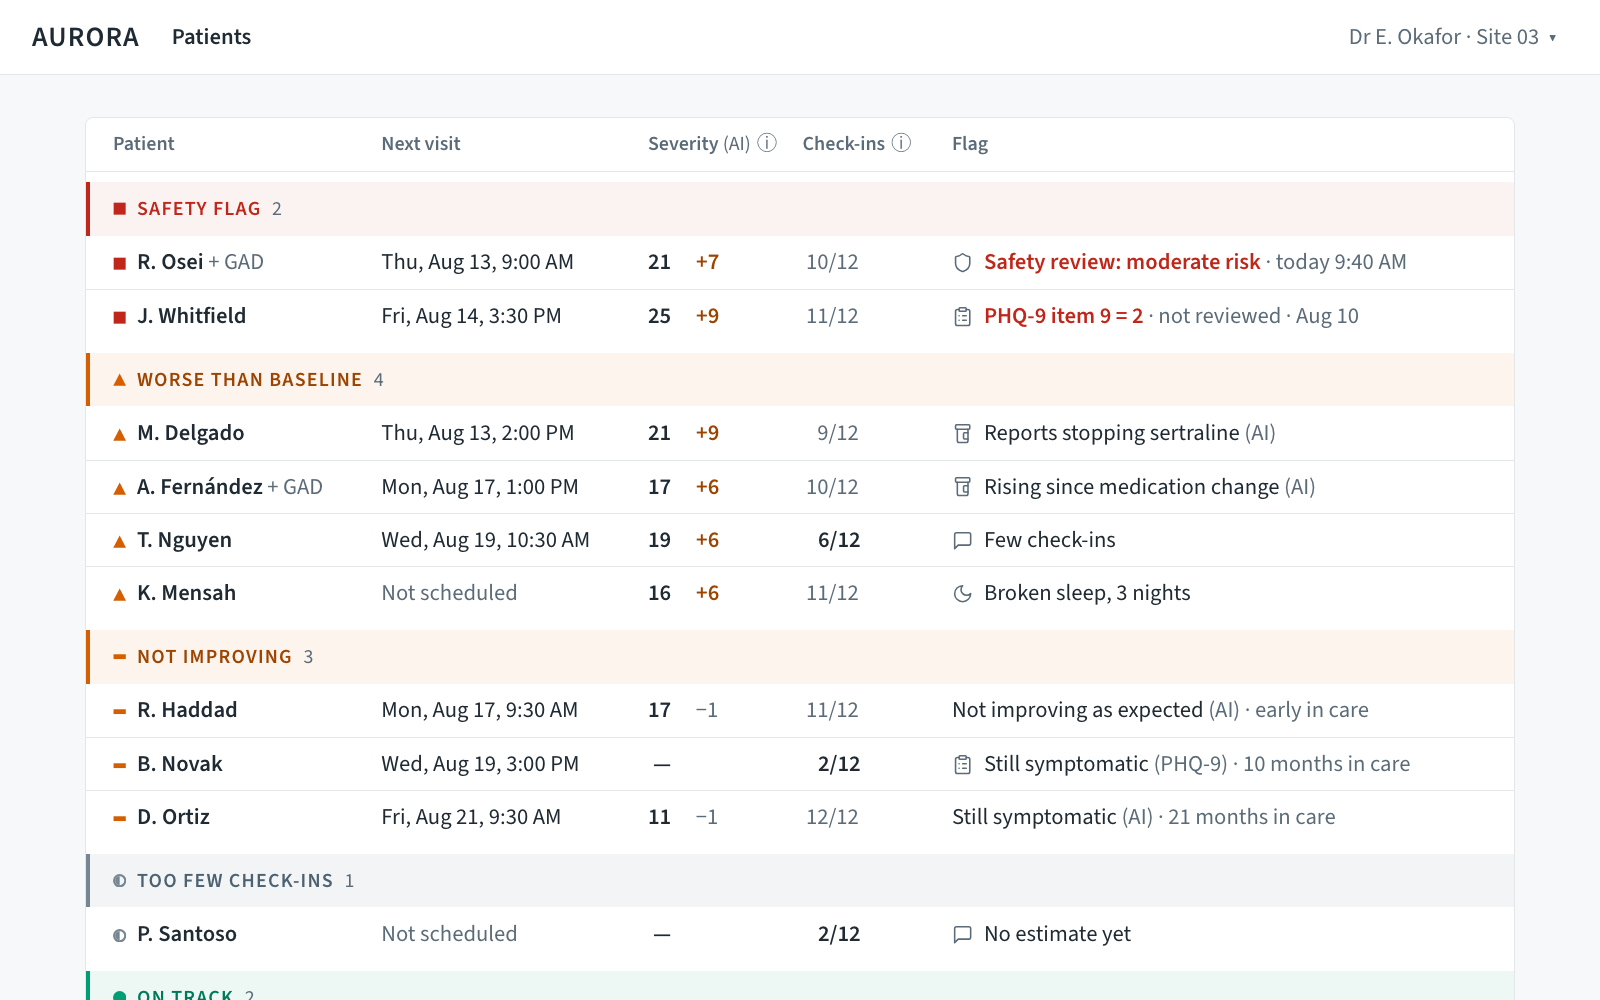
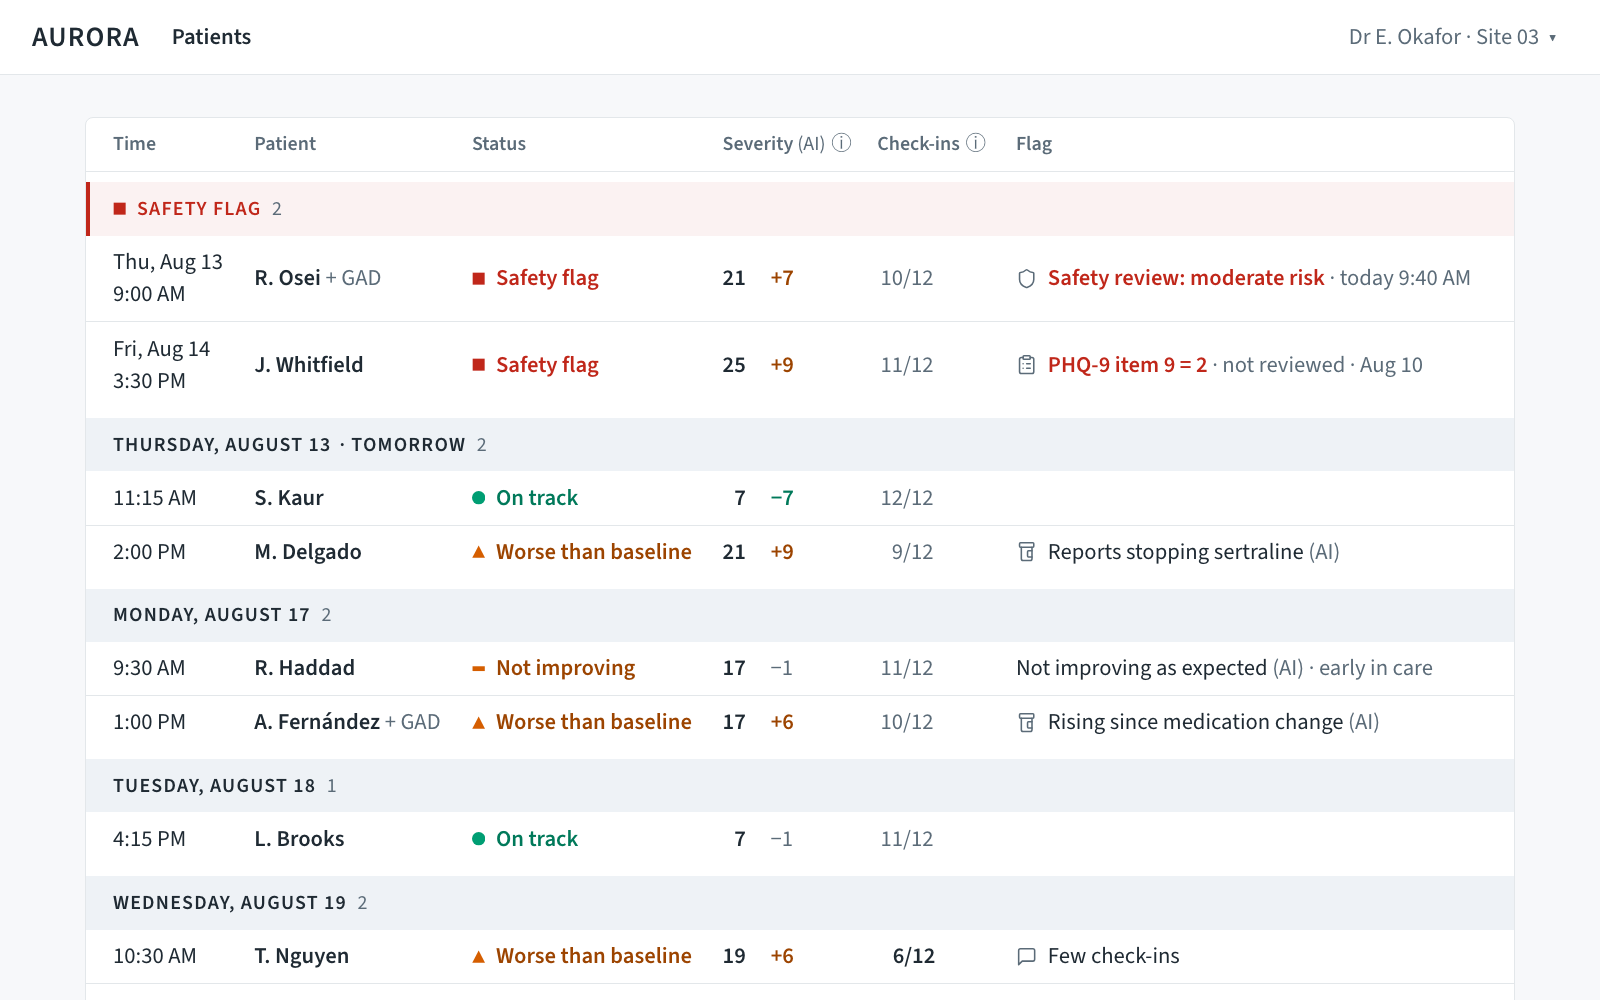
Open the caseload by next visit, with safety flags pinned first
v2 and v3 now open the caseload by next visit; grouped by status stays
one click away (#view=list&order=status). Distinct sections was
already the default.

So that safety flags still come first in this order, flagged patients
sit in a Safety flag group above the day headers, listed once, as in
the grouped view. No day header covers those rows, so each shows the
visit date above the time. The Time column widens to 90 px at larger
text, enough for the widest date ("Wed, May 10").

DESIGN.md now states the rule (safety flags first in either order),
and the v3 landing thumbnail shows the new default.

diff --git a/AURORA Dashboard v3.dc.html b/AURORA Dashboard v3.dc.html
@@ -111,6 +111,9 @@ a{color:var(--accent);text-decoration:none;cursor:pointer}a:hover{text-decoratio
 .grp + .row{border-top:0}
 /* Day headers (by next visit): neutral, because colour means status */
 .grp .rel{margin-left:6px}
+/* By next visit, flagged patients are pinned above the day headers, so their rows carry the visit date */
+.pin-date{display:block}
+.row:has(.pin-date){padding-top:8px;padding-bottom:8px}
 .row:hover{background:var(--hover)}
 /* Row peek: a hover card with the trend and what changed. Rows are links, reachable by Tab. */
 .row{position:relative}
@@ -269,7 +272,7 @@ a{color:var(--accent);text-decoration:none;cursor:pointer}a:hover{text-decoratio
 /* Larger text: wider column and table columns, safety wording and footers at body size, lines kept short */
 .big .page,.big .band-inner{max-width:70rem}
 .big .list.by-status{--cols:minmax(170px,1.2fr) 184px 100px 96px minmax(0,2.6fr)}
-.big .list.by-visit{--cols:84px minmax(140px,1fr) 172px 100px 88px minmax(0,2.4fr)}
+.big .list.by-visit{--cols:90px minmax(140px,1fr) 172px 100px 88px minmax(0,2.4fr)}
 .big.distinct .pt-sections{grid-template-columns:minmax(0,1fr) 21rem}
 .big .safety-note{font-size:var(--fs-md);line-height:var(--lh-md)}
 .big .foot{font-size:var(--fs-md);line-height:var(--lh-md);max-width:70ch}
@@ -391,10 +394,10 @@ a{color:var(--accent);text-decoration:none;cursor:pointer}a:hover{text-decoratio
         <span>Flag</span>
       </div>
       <sc-for list="{{ groups }}" as="g">
-        <sc-if value="{{ byStatus }}">
+        <sc-if value="{{ g.isStatus }}">
           <div class="grp {{ g.cls }}"><svg class="mk" viewBox="0 0 10 10"><path d="{{ g.shape }}" fill="currentColor" fill-rule="evenodd"></path><path d="{{ g.shape2 }}" fill="currentColor"></path></svg>{{ g.title }}<span class="count">{{ g.count }}</span></div>
         </sc-if>
-        <sc-if value="{{ byVisit }}">
+        <sc-if value="{{ g.isDay }}">
           <div class="grp day">{{ g.title }}<sc-if value="{{ g.rel }}"><span class="rel">· {{ g.rel }}</span></sc-if><span class="count">{{ g.count }}</span></div>
         </sc-if>
         <sc-for list="{{ g.rows }}" as="p">
@@ -414,7 +417,7 @@ a{color:var(--accent);text-decoration:none;cursor:pointer}a:hover{text-decoratio
                 <sc-if value="{{ peek.hasChanges }}"><ul class="peek-changes"><sc-for list="{{ peek.changes }}" as="c"><li>{{ c.iconEl }}<span class="{{ c.cls }}">{{ c.title }}</span></li></sc-for></ul></sc-if>
               </div>
             </sc-if>
-            <sc-if value="{{ byVisit }}"><span class="num">{{ p.timeText }}</span></sc-if>
+            <sc-if value="{{ byVisit }}"><span class="num"><sc-if value="{{ p.pinDate }}"><span class="pin-date">{{ p.pinDate }}</span></sc-if>{{ p.timeText }}</span></sc-if>
             <span><sc-if value="{{ byStatus }}"><svg class="mk {{ p.stCls }}" viewBox="0 0 10 10"><path d="{{ p.shape }}" fill="currentColor" fill-rule="evenodd"></path><path d="{{ p.shape2 }}" fill="currentColor"></path></svg></sc-if><span class="pt-name">{{ p.name }}</span><sc-if value="{{ p.dx }}"> <span class="muted">{{ p.dx }}</span></sc-if></span>
             <sc-if value="{{ byStatus }}"><span class="num {{ p.visitCls }}">{{ p.visitText }}</span></sc-if>
             <sc-if value="{{ byVisit }}"><span class="status {{ p.stCls }}"><svg class="mk" viewBox="0 0 10 10"><path d="{{ p.shape }}" fill="currentColor" fill-rule="evenodd"></path><path d="{{ p.shape2 }}" fill="currentColor"></path></svg>{{ p.stLabel }}</span></sc-if>
@@ -821,7 +824,7 @@ const lastIndex = (arr) => { for (let i = arr.length - 1; i >= 0; i--) if (arr[i
 const signed = (d) => (d > 0 ? '+' : d < 0 ? '−' : '') + Math.abs(d);
 
 class Component extends DCLogic {
-  state = { view: 'list', pid: 'delgado', order: 'status', icons: true, distinct: true, big: true, clock24: false, menuOpen: false, hoverDay: null, peek: null, tip: null, tipPinned: false, drivers: false, factsOpen: false, discussed: false };
+  state = { view: 'list', pid: 'delgado', order: 'visit', icons: true, distinct: true, big: true, clock24: false, menuOpen: false, hoverDay: null, peek: null, tip: null, tipPinned: false, drivers: false, factsOpen: false, discussed: false };
 
   componentDidMount() {
     const o = {};
@@ -945,11 +948,14 @@ class Component extends DCLogic {
       const diff = Math.round((new Date(2026, MONTHS.indexOf(mon), Number(dd)) - TODAY) / 864e5);
       return { title: `${DAY_FULL[wd]}, ${MONTHS_FULL[MONTHS.indexOf(mon)]} ${dd}`, rel: diff === 0 ? 'Today' : diff === 1 ? 'Tomorrow' : '' };
     };
-    const groups = byStatus
-      ? GROUP_ORDER.map((k) => ({ cls: STATUS[k].cls, title: STATUS[k].label, shape: STATUS[k].shape, shape2: STATUS[k].shape2 || 'M0 0', rows: byVisitOrder.filter((p) => p.status === k) }))
-          .filter((g) => g.rows.length).map((g) => ({ ...g, count: String(g.rows.length) }))
-      : [...new Set(byVisitOrder.map((p) => p.dayKey))].map((k) => ({ ...dayHead(k), rows: byVisitOrder.filter((p) => p.dayKey === k) }))
-          .map((g) => ({ ...g, count: String(g.rows.length) }));
+    const statusGroup = (k, rows) => ({ isStatus: true, cls: STATUS[k].cls, title: STATUS[k].label, shape: STATUS[k].shape, shape2: STATUS[k].shape2 || 'M0 0', rows });
+    const dayGroups = (rows) => [...new Set(rows.map((p) => p.dayKey))].map((k) => ({ ...dayHead(k), isDay: true, rows: rows.filter((p) => p.dayKey === k) }));
+    // By next visit, safety flags still come first: a Safety flag group above the day headers, its rows carrying the visit date
+    const pinned = byVisitOrder.filter((p) => p.status === 'safety').map((p) => ({ ...p, pinDate: p.dayKey || 'Not scheduled' }));
+    const groups = (byStatus
+      ? GROUP_ORDER.map((k) => statusGroup(k, byVisitOrder.filter((p) => p.status === k)))
+      : [statusGroup('safety', pinned), ...dayGroups(byVisitOrder.filter((p) => p.status !== 'safety'))])
+      .filter((g) => g.rows.length).map((g) => ({ ...g, count: String(g.rows.length) }));
 
     // Selected patient
     const P = all.find((p) => p.id === s.pid) || all.find((p) => p.id === 'delgado');

diff --git a/AURORA Dashboard v2.dc.html b/AURORA Dashboard v2.dc.html
@@ -107,6 +107,9 @@ a{color:var(--accent);text-decoration:none;cursor:pointer}a:hover{text-decoratio
 .grp + .row{border-top:0}
 /* Day headers (by next visit): neutral, because colour means status */
 .grp .rel{margin-left:6px}
+/* By next visit, flagged patients are pinned above the day headers, so their rows carry the visit date */
+.pin-date{display:block}
+.row:has(.pin-date){padding-top:8px;padding-bottom:8px}
 .row:hover{background:var(--hover)}
 /* Row peek: a hover card with the trend and what changed. Rows are links, reachable by Tab. */
 .row{position:relative}
@@ -245,7 +248,7 @@ a{color:var(--accent);text-decoration:none;cursor:pointer}a:hover{text-decoratio
 /* Larger text: wider column and table columns, safety wording and footers at body size, lines kept short */
 .big .page,.big .band-inner{max-width:70rem}
 .big .list.by-status{--cols:minmax(170px,1.2fr) 184px 100px 96px minmax(0,2.6fr)}
-.big .list.by-visit{--cols:84px minmax(140px,1fr) 172px 100px 88px minmax(0,2.4fr)}
+.big .list.by-visit{--cols:90px minmax(140px,1fr) 172px 100px 88px minmax(0,2.4fr)}
 .big.distinct .pt-sections{grid-template-columns:minmax(0,1fr) 21rem}
 .big .safety-note{font-size:var(--fs-md);line-height:var(--lh-md)}
 .big .foot{font-size:var(--fs-md);line-height:var(--lh-md);max-width:70ch}
@@ -367,10 +370,10 @@ a{color:var(--accent);text-decoration:none;cursor:pointer}a:hover{text-decoratio
         <span>Flag</span>
       </div>
       <sc-for list="{{ groups }}" as="g">
-        <sc-if value="{{ byStatus }}">
+        <sc-if value="{{ g.isStatus }}">
           <div class="grp {{ g.cls }}"><svg class="mk" viewBox="0 0 10 10"><path d="{{ g.shape }}" fill="currentColor" fill-rule="evenodd"></path><path d="{{ g.shape2 }}" fill="currentColor"></path></svg>{{ g.title }}<span class="count">{{ g.count }}</span></div>
         </sc-if>
-        <sc-if value="{{ byVisit }}">
+        <sc-if value="{{ g.isDay }}">
           <div class="grp day">{{ g.title }}<sc-if value="{{ g.rel }}"><span class="rel">· {{ g.rel }}</span></sc-if><span class="count">{{ g.count }}</span></div>
         </sc-if>
         <sc-for list="{{ g.rows }}" as="p">
@@ -390,7 +393,7 @@ a{color:var(--accent);text-decoration:none;cursor:pointer}a:hover{text-decoratio
                 <sc-if value="{{ peek.hasChanges }}"><ul class="peek-changes"><sc-for list="{{ peek.changes }}" as="c"><li>{{ c.iconEl }}<span class="{{ c.cls }}">{{ c.title }}</span></li></sc-for></ul></sc-if>
               </div>
             </sc-if>
-            <sc-if value="{{ byVisit }}"><span class="num">{{ p.timeText }}</span></sc-if>
+            <sc-if value="{{ byVisit }}"><span class="num"><sc-if value="{{ p.pinDate }}"><span class="pin-date">{{ p.pinDate }}</span></sc-if>{{ p.timeText }}</span></sc-if>
             <span><sc-if value="{{ byStatus }}"><svg class="mk {{ p.stCls }}" viewBox="0 0 10 10"><path d="{{ p.shape }}" fill="currentColor" fill-rule="evenodd"></path><path d="{{ p.shape2 }}" fill="currentColor"></path></svg></sc-if><span class="pt-name">{{ p.name }}</span><sc-if value="{{ p.dx }}"> <span class="muted">{{ p.dx }}</span></sc-if></span>
             <sc-if value="{{ byStatus }}"><span class="num {{ p.visitCls }}">{{ p.visitText }}</span></sc-if>
             <sc-if value="{{ byVisit }}"><span class="status {{ p.stCls }}"><svg class="mk" viewBox="0 0 10 10"><path d="{{ p.shape }}" fill="currentColor" fill-rule="evenodd"></path><path d="{{ p.shape2 }}" fill="currentColor"></path></svg>{{ p.stLabel }}</span></sc-if>
@@ -704,7 +707,7 @@ const lastIndex = (arr) => { for (let i = arr.length - 1; i >= 0; i--) if (arr[i
 const signed = (d) => (d > 0 ? '+' : d < 0 ? '−' : '') + Math.abs(d);
 
 class Component extends DCLogic {
-  state = { view: 'list', pid: 'delgado', order: 'status', icons: true, distinct: true, big: true, clock24: false, menuOpen: false, hoverDay: null, peek: null, tip: null, tipPinned: false, factsOpen: false, discussed: false };
+  state = { view: 'list', pid: 'delgado', order: 'visit', icons: true, distinct: true, big: true, clock24: false, menuOpen: false, hoverDay: null, peek: null, tip: null, tipPinned: false, factsOpen: false, discussed: false };
 
   componentDidMount() {
     const o = {};
@@ -819,11 +822,14 @@ class Component extends DCLogic {
       const diff = Math.round((new Date(2026, MONTHS.indexOf(mon), Number(dd)) - TODAY) / 864e5);
       return { title: `${DAY_FULL[wd]}, ${MONTHS_FULL[MONTHS.indexOf(mon)]} ${dd}`, rel: diff === 0 ? 'Today' : diff === 1 ? 'Tomorrow' : '' };
     };
-    const groups = byStatus
-      ? GROUP_ORDER.map((k) => ({ cls: STATUS[k].cls, title: STATUS[k].label, shape: STATUS[k].shape, shape2: STATUS[k].shape2 || 'M0 0', rows: byVisitOrder.filter((p) => p.status === k) }))
-          .filter((g) => g.rows.length).map((g) => ({ ...g, count: String(g.rows.length) }))
-      : [...new Set(byVisitOrder.map((p) => p.dayKey))].map((k) => ({ ...dayHead(k), rows: byVisitOrder.filter((p) => p.dayKey === k) }))
-          .map((g) => ({ ...g, count: String(g.rows.length) }));
+    const statusGroup = (k, rows) => ({ isStatus: true, cls: STATUS[k].cls, title: STATUS[k].label, shape: STATUS[k].shape, shape2: STATUS[k].shape2 || 'M0 0', rows });
+    const dayGroups = (rows) => [...new Set(rows.map((p) => p.dayKey))].map((k) => ({ ...dayHead(k), isDay: true, rows: rows.filter((p) => p.dayKey === k) }));
+    // By next visit, safety flags still come first: a Safety flag group above the day headers, its rows carrying the visit date
+    const pinned = byVisitOrder.filter((p) => p.status === 'safety').map((p) => ({ ...p, pinDate: p.dayKey || 'Not scheduled' }));
+    const groups = (byStatus
+      ? GROUP_ORDER.map((k) => statusGroup(k, byVisitOrder.filter((p) => p.status === k)))
+      : [statusGroup('safety', pinned), ...dayGroups(byVisitOrder.filter((p) => p.status !== 'safety'))])
+      .filter((g) => g.rows.length).map((g) => ({ ...g, count: String(g.rows.length) }));
 
     // Selected patient
     const P = all.find((p) => p.id === s.pid) || all.find((p) => p.id === 'delgado');

diff --git a/DESIGN.md b/DESIGN.md
@@ -121,9 +121,9 @@ The striped "Review controls" strip is scaffolding for reviewers. Its colours ar
 - **Change:** a signed number after the value ("21 +9"), measured from the patient's own baseline. It is coloured (`worse-text` or `stable-text`, weight 600) only when it is 5 or more points; otherwise muted. Don't use ▲▼ arrows: the triangle is already the worse-than-baseline status shape.
 - **Uncertainty:** "± 4", or the clipped range ("range 22–27") when the interval runs past the 0–27 scale.
 - **Caseload order:**
-  - **Grouped by status** (the default): Safety flag, Worse than baseline, Too few check-ins, Stable or better, with patients in visit order within each group.
-  - **By next visit:** one group per day. Each day has a full-width header giving the full date ("Thursday, August 13"), "Today" or "Tomorrow" where it applies, and the number of visits; "Not scheduled" comes last. The date is in the header, so the rows show only the time, under the column heading "Time".
+  - **By next visit** (the default): one group per day. Each day has a full-width header giving the full date ("Thursday, August 13"), "Today" or "Tomorrow" where it applies, and the number of visits; "Not scheduled" comes last. The date is in the header, so the rows show only the time, under the column heading "Time". Safety-flagged patients come first, in a Safety flag group pinned above the day headers; no day header covers those rows, so each gives the visit date above the time.
   - Day headers are neutral, because colour means status. In the distinct style they sit on the neutral `tint`, with no edge.
+  - **Grouped by status:** Safety flag, Worse than baseline, Too few check-ins, Stable or better, with patients in visit order within each group.
 - **Caseload columns:** the column you look patients up by comes first, then the rest in order of importance.
   - **Grouped by status:** Patient (with the status shape), Next visit (the order within each group), Severity, Check-ins, Flag.
   - **By next visit:** Time, Patient, Status, Severity, Check-ins, Flag. Time comes first, as in a day schedule. The Status column (shape and word) stands in for the status groups.
@@ -154,7 +154,8 @@ The striped "Review controls" strip is scaffolding for reviewers. Its colours ar
   - No outlined buttons.
   - Caseload rows have no action buttons: the whole row opens the patient.
 - **Safety flag:**
-  - It is the first group in the caseload and the first tile on the patient page, with the marker and text in `safety`.
+  - It is the first tile on the patient page, with the marker and text in `safety`.
+  - It is the first group in the caseload in either order: grouped by status, or pinned above the day headers by next visit.
   - It shows the criterion that raised it, its review status and the date: "Safety review: moderate risk · today 9:40 AM", "PHQ-9 item 9 = 2 · not reviewed · Aug 10". Clinicians want to know the thresholds behind an output (Rai et al. 2025, doi:10.2196/78757).
   - Its notes, such as review status, are `text-md`: safety wording is never in the smallest size.
   - The footer, also `text-md`, says that item 9 answers appear without study-team review.
@@ -278,7 +279,7 @@ v2 stays as built, so the working group can compare the two. Where v3 differs fr
 1. **Audit content** for the page against its question: keep, move or cut. Get CWG decisions on flagged items. Audits quote the planning meetings, so they stay out of this public repo.
 2. **Restyle one page at a time**, using only these tokens.
 3. **Screenshot loop.** Serve the repo folder (`python3 -m http.server 8767`) and take headless Chrome screenshots at 1400 px wide.
-   - v2 supports deep links, e.g. `AURORA%20Dashboard%20v2.dc.html#view=patient&p=delgado` or `#view=list&order=visit`. Add `&style=plain` or `&style=distinct` for the section style, `&text=current` for the earlier text sizes, `&clock=24` for 24-hour times, and `&icons=0` to hide icons.
+   - v2 supports deep links, e.g. `AURORA%20Dashboard%20v2.dc.html#view=patient&p=delgado` or `#view=list&order=status`. Add `&style=plain` or `&style=distinct` for the section style, `&text=current` for the earlier text sizes, `&clock=24` for 24-hour times, and `&icons=0` to hide icons.
    - Check the printed patient page is one page (`--print-to-pdf`).
    - Save before/after shots to `design/screenshots/` with dated names.
 4. **Independent critique.** Give a second model, or a fresh agent, only the screenshots and this file, and ask what to remove. The Gemini CLI on this Mac needs `GOOGLE_CLOUD_PROJECT` set before it will run.

diff --git a/README.md b/README.md
@@ -19,7 +19,7 @@ v2 changed to follow the theoretical model (`Theoretical model/`) and the off-tr
 ### v2: `AURORA Dashboard v2.dc.html`
 
 The redesign, built to the rules in `DESIGN.md`. It has three pages:
-- **Caseload:** grouped by status, or by next visit, with a header for each day.
+- **Caseload:** by next visit (the default), with a header for each day, or grouped by status. Safety-flagged patients come first in both.
 - **Patient page:** patient detail and session prep merged into one page, which prints as the one-page session brief.
 - **Patient handout:** a plain-language page for the patient.
 
@@ -39,7 +39,7 @@ What changed from v1:
 
 Deep links open a specific page:
 - `#view=patient&p=delgado`
-- `#view=list&order=visit`
+- `#view=list&order=status`
 - `#view=handout&p=delgado`
 - Add `&style=plain` or `&style=distinct` for the section style, `&text=current` or `&text=larger` for the text size, `&clock=24` for 24-hour times, and `&icons=0` to hide the icons.
 
